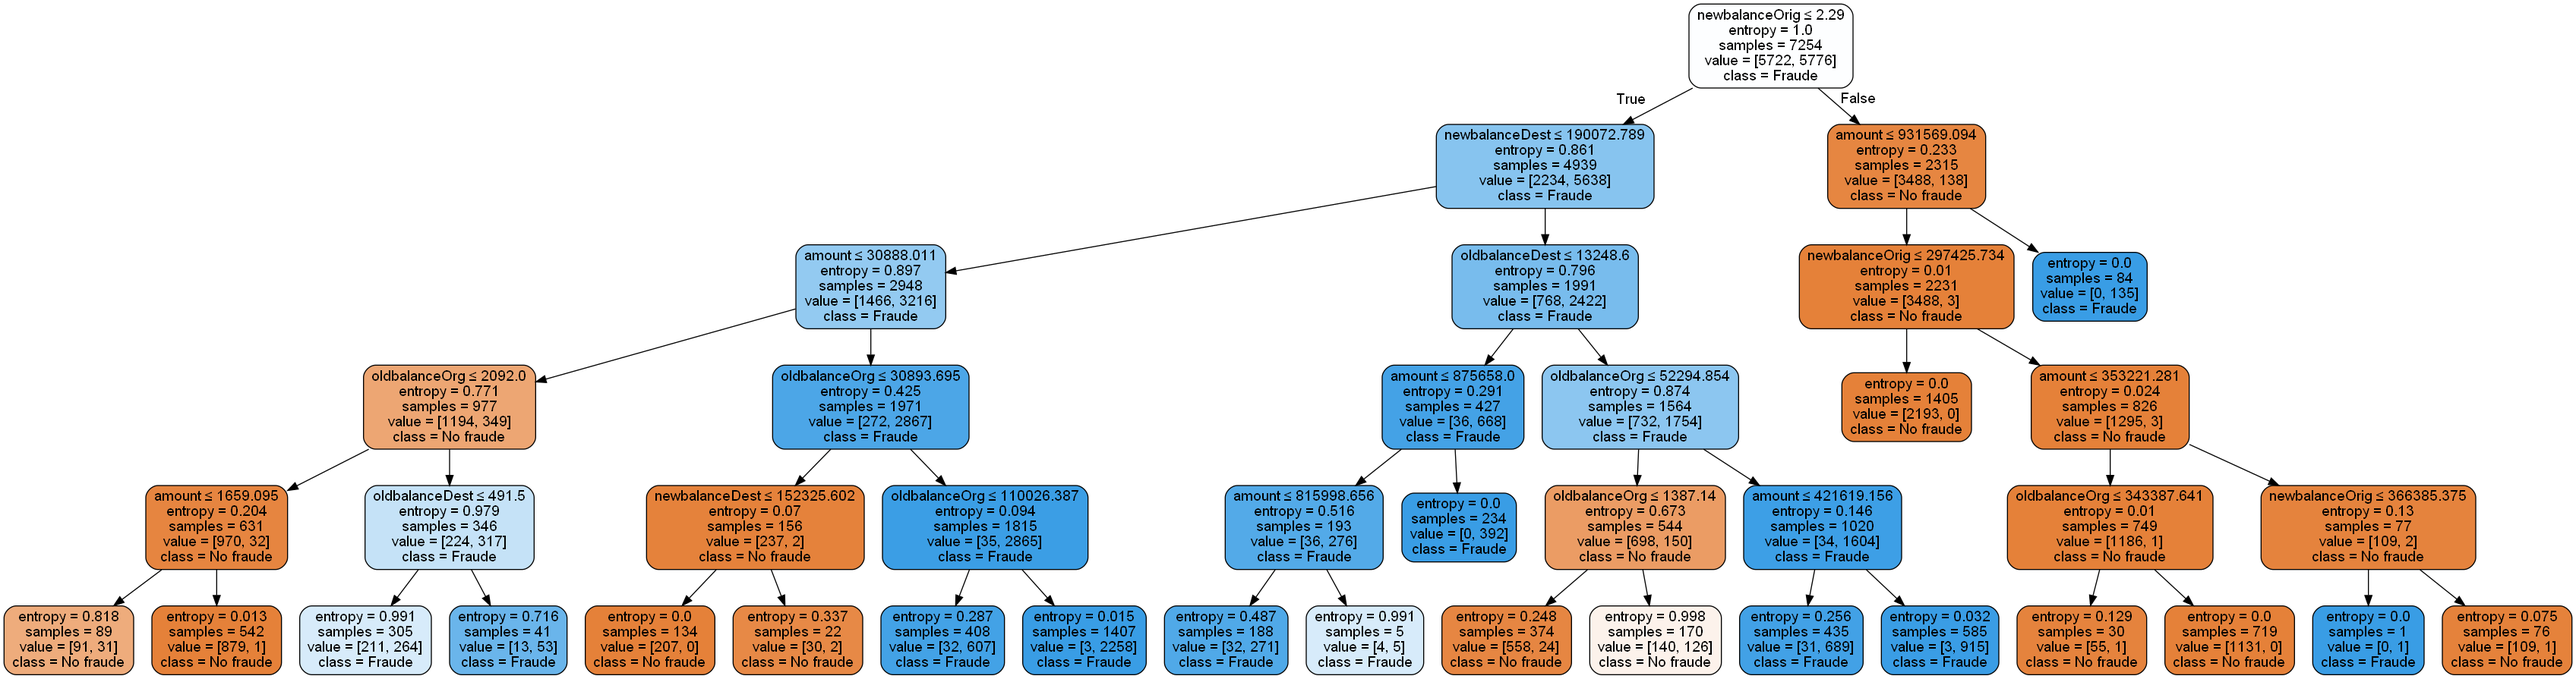
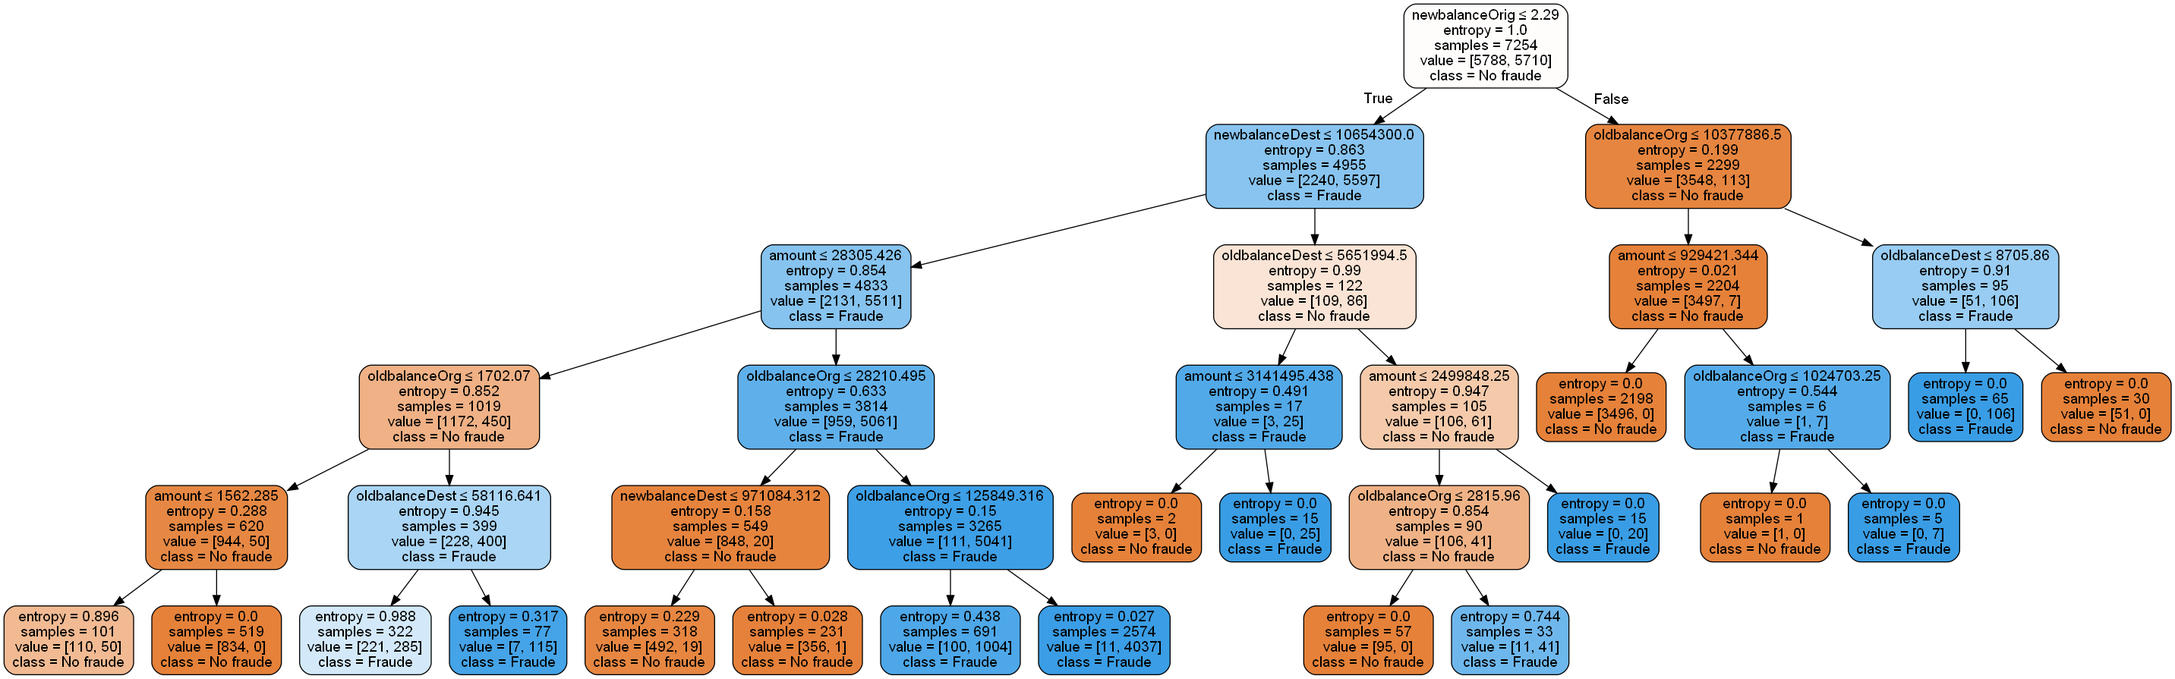
update

diff --git a/tree.py b/tree.py
@@ -23,7 +23,7 @@ y = df['isFraud']
 
 # Split dataset into training set and test set
 X_train, X_test, y_train, y_test = train_test_split(
-    X, y, test_size=0.3, random_state=1)  # 70% training and 30% test
+    X, y, test_size=0.3)  # 70% training and 30% test
 # Create Decision Tree classifer object
 clf = DecisionTreeClassifier(criterion="entropy", max_depth=5)
 
